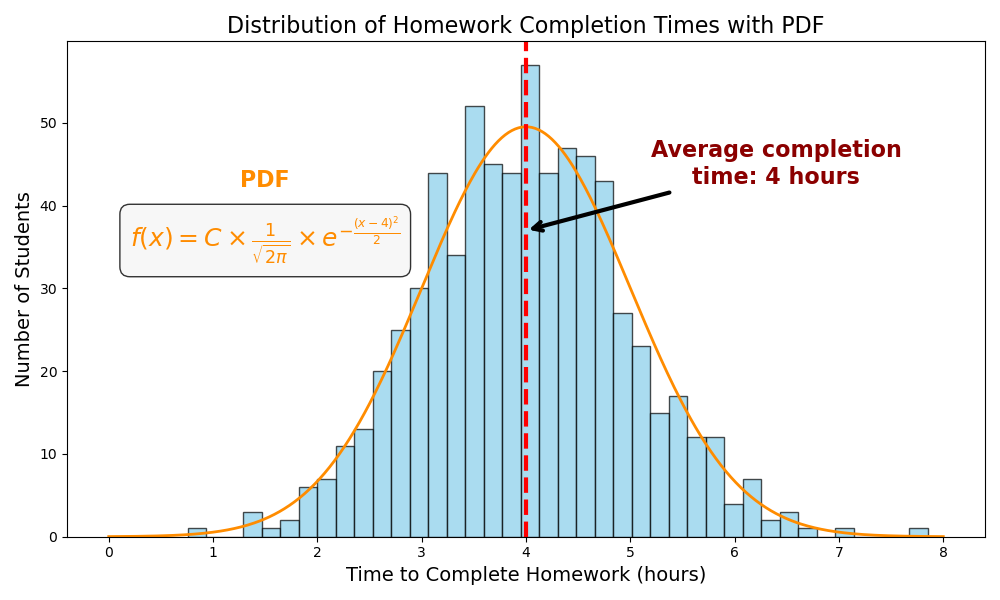
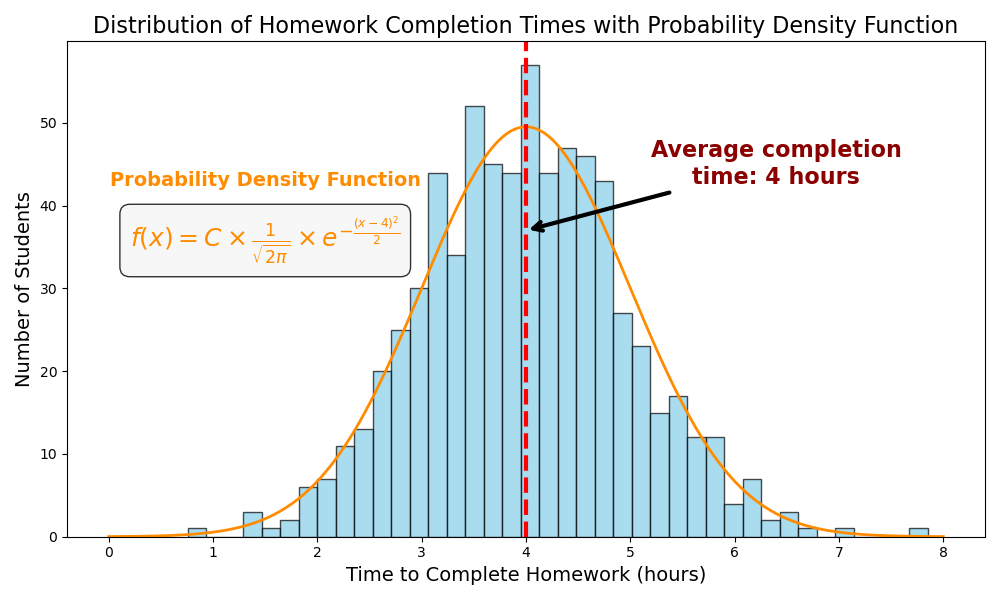
Blog finalized

Changed region(s): [[0.093, 0.03, 0.961, 0.06], [0.093, 0.27, 0.434, 0.33]]

diff --git a/docs/posts/normal-distribution/index.html b/docs/posts/normal-distribution/index.html
@@ -188,7 +188,7 @@ window.Quarto = {
 
 <section id="introduction" class="level3">
 <h3 class="anchored" data-anchor-id="introduction">Introduction</h3>
-<p>Statistics courses are a common part of university education, attracting students from different majors. However, these courses often present statistical distributions through definitions and formulas, which can leave students with a limited understanding of their practical significance. This blog focuses on providing a clear and intuitive explanation of the normal distribution, one of the most fundamental statistical distributions. By using relatable examples, engaging plots, and simplified explanations, it explores the “why” and “how” of the normal distribution, highlighting its real-world relevance and applications.</p>
+<p>Statistics courses are a common part of university education, attracting students from different majors. However, these courses often present statistical distributions only through definitions and formulas, which can leave students with a limited understanding of their practical significance. This blog focuses on providing a clear and intuitive explanation of the normal distribution, one of the most fundamental statistical distributions. By using relatable examples, engaging plots, and simplified explanations, it explores the “why” and “how” of the normal distribution, highlighting its real-world relevance and applications.</p>
 <div class="callout callout-style-default callout-note callout-titled">
 <div class="callout-header d-flex align-content-center">
 <div class="callout-icon-container">
@@ -199,7 +199,7 @@ Note
 </div>
 </div>
 <div class="callout-body-container callout-body">
-<p>This blog assumes readers already have a foundational understanding of statistics and probability, including familiarity with random variables and probability density functions. While brief explanations are provided, the blog does not go deep into these concepts</p>
+<p>This blog assumes readers already have a foundational understanding of statistics and probability, including familiarity with random variables and probability density functions. While brief explanations are provided, the blog does not go deep into these concepts.</p>
 </div>
 </div>
 </section>
@@ -226,14 +226,14 @@ Figure&nbsp;1: The distribution of homework completion times. The x-axis represe
 </figcaption>
 </figure>
 </div>
-<p>The x-axis represents the time taken to complete the homework, while the y-axis shows the number of students who completed it within that time frame. This graph is called the <strong>distribution of the random variable</strong> or in this case, <strong>the distribution of the time required to complete the first homework</strong>. Depending on the students’ preparation and skill set, the distribution may vary. The <a href="#fig-skewed-homework-completion-distribution" class="quarto-xref">Figure&nbsp;2</a> shows another two scenarios that are relevant to university homework completion case.</p>
+<p>The x-axis represents the time taken to complete the homework, while the y-axis shows the number of students who completed it within that time frame. This graph is called the <strong>distribution of the random variable</strong> or in this case, <strong>the distribution of the time required to complete the first homework</strong>. Depending on the students’ preparation and skill set, the distribution may vary. The <a href="#fig-skewed-homework-completion-distribution" class="quarto-xref">Figure&nbsp;2</a> shows another two scenarios that are relevant to the university homework completion case.</p>
 <div id="fig-skewed-homework-completion-distribution" class="quarto-float quarto-figure quarto-figure-center anchored">
 <figure class="quarto-float quarto-float-fig figure">
 <div aria-describedby="fig-skewed-homework-completion-distribution-caption-0ceaefa1-69ba-4598-a22c-09a6ac19f8ca">
 <img src="../../img/skewed_homework_completion_distribution.png" class="img-fluid figure-img" style="width:110.0%">
 </div>
 <figcaption class="quarto-float-caption-bottom quarto-float-caption quarto-float-fig" id="fig-skewed-homework-completion-distribution-caption-0ceaefa1-69ba-4598-a22c-09a6ac19f8ca">
-Figure&nbsp;2: The skewed distribution of homework completion times. The first plot is a right skewed distribution. The second plot is a left skewed distribution.
+Figure&nbsp;2: The skewed distribution of homework completion times. The first plot is a right-skewed distribution. The second plot is a left-skewed distribution.
 </figcaption>
 </figure>
 </div>
@@ -248,7 +248,7 @@ Figure&nbsp;2: The skewed distribution of homework completion times. The first p
 <p>The random variable <code>X = the time required to complete the statistics homework</code> follows a normal distribution with mean 4 hours and standard deviation of 1 hour. Or: <span class="math display">\[
 N \sim (\mu = 4, \sigma^2=1)
 \]</span></p>
-<p>There are two parameters in the normal distribution - <span class="math inline">\(\mu \text{ and } \sigma\)</span> corresponding to mean and standard deviation respectively. Any combination of the parameters is a new normal distribution. <span class="citation" data-cites="different-normal-distributions">@different-normal-distributions</span> plots different normal distributions.</p>
+<p>There are two parameters in the normal distribution - <span class="math inline">\(\mu \text{ and } \sigma\)</span>, corresponding to mean and standard deviation respectively. Any combination of the parameters is a new normal distribution. <a href="#fig-different-normal-distributions" class="quarto-xref">Figure&nbsp;3</a> plots different normal distributions.</p>
 <div id="fig-different-normal-distributions" class="quarto-float quarto-figure quarto-figure-center anchored">
 <figure class="quarto-float quarto-float-fig figure">
 <div aria-describedby="fig-different-normal-distributions-caption-0ceaefa1-69ba-4598-a22c-09a6ac19f8ca">
@@ -290,35 +290,42 @@ f(x) = \frac{1}{\sqrt{2\pi\sigma^2}} \times e^{-\frac{(x - \mu)^2}{2\sigma^2}}
 <p><span class="math display">\[
 C = \text{Number of students} \times \text{Bin width}
 \]</span></p>
-<p>Now, when you know that your data follows a normal distribution, lots of opportunities come up:</p>
+<p>Now, when you know that your data follows a normal distribution, lots of opportunities come up: &nbsp;</p>
 <ul>
-<li><strong>Enable parametric tests</strong>: Many statistical tests and models assume normality. If your data is normally distributed, you can apply parametric methods, which tend to offer more power and precision compared to non-parametric methods (e.g.&nbsp;Test if the average time to complete the homework is equal to 4 hours for all the students taking statistics using the sample).</li>
-<li><strong>Prediction</strong>: Using the Cumulative Distribution Function (CDF) you can find probability of students finishing their homework in certain range (e.g.&nbsp;X &gt; 6: What is the probability that a student will finish the homework in more than 6 hours).<br>
-</li>
-<li><strong>Other</strong>: Normal distributions provide additional advantages, such as more reliable confidence intervals, simpler statistical inference, and the ability to use the central limit theorem even with smaller sample sizes.</li>
+<li>&nbsp; <strong>Enable parametric tests</strong>: Many statistical tests and models assume normality. If your data is normally distributed, you can apply parametric methods, which tend to offer more power and precision compared to non-parametric methods (e.g.&nbsp;Test if the average time to complete the homework is equal to 4 hours for all the students taking statistics using the sample data).</li>
+<li>&nbsp; <strong>Prediction</strong>: Using the Cumulative Distribution Function (CDF) you can find the probability of students finishing their homework in certain range (e.g.&nbsp;X &gt; 6: What is the probability that a student will finish the homework in more than 6 hours). &nbsp;</li>
+<li>&nbsp; <strong>Other</strong>: Normal distributions provide additional advantages, such as more reliable confidence intervals, simpler statistical inference, and the ability to use the central limit theorem even with smaller sample sizes.</li>
 </ul>
 </section>
 <section id="what-is-the-reason-for-normal-distribution-being-so-popular" class="level3">
 <h3 class="anchored" data-anchor-id="what-is-the-reason-for-normal-distribution-being-so-popular">What is the reason for normal distribution being so popular?</h3>
-<p>Normal distribution commonly appears in real-world scenarios. This is connected to an important statistical theorem called <strong>Central Limit Theorem (CLT)</strong>. It states that, regardless of the original distribution of data, if you repeatedly take random samples from a population and calculate the mean of each sample, the distribution of those sample means will tend to follow a normal distribution as the sample size increases. Sounds a bit complicated, let’s break down based on an example. The outcomes on the die are 1, 2, 3, 4, 5, or 6, and each number has an equal chance of occurring (<span class="math inline">\(\frac{1}{6}\)</span>), so the distribution is uniform (see <span class="citation" data-cites="dice-probability">@dice-probability</span>).</p>
-<div id="dice-probability" class="quarto-figure quarto-figure-center anchored">
-<figure class="figure">
-<p><img src="../../img/dice_probability.png" class="img-fluid figure-img" style="width:90.0%"></p>
-<figcaption>The probability distribution of rolling a fair 6-sided die.</figcaption>
+<p>Normal distribution commonly appears in real-world scenarios. One of the main reasons is the important statistical theorem called <strong>Central Limit Theorem (CLT)</strong>. It states that, regardless of the original distribution of data, if you repeatedly take random samples from a population and calculate the mean of each sample, the distribution of those sample means will tend to follow a normal distribution as the sample size increases. Sounds a bit complicated, let’s break down based on an example. The outcomes on the die are 1, 2, 3, 4, 5, or 6, and each number has an equal chance of occurring (<span class="math inline">\(\frac{1}{6}\)</span>), so the distribution is uniform (see <a href="#fig-dice-probability" class="quarto-xref">Figure&nbsp;5</a>).</p>
+<div id="fig-dice-probability" class="quarto-float quarto-figure quarto-figure-center anchored">
+<figure class="quarto-float quarto-float-fig figure">
+<div aria-describedby="fig-dice-probability-caption-0ceaefa1-69ba-4598-a22c-09a6ac19f8ca">
+<img src="../../img/dice_probability.png" class="img-fluid figure-img" style="width:90.0%">
+</div>
+<figcaption class="quarto-float-caption-bottom quarto-float-caption quarto-float-fig" id="fig-dice-probability-caption-0ceaefa1-69ba-4598-a22c-09a6ac19f8ca">
+Figure&nbsp;5: The probability distribution of rolling a fair 6-sided die.
+</figcaption>
 </figure>
 </div>
-<p>Now, you want to calculate the average of several rolls of the die. If you roll the die 5 times and calculate the average of those 5 rolls, you will get a number between 1 and 6. If you repeat the process 100 times (rolling the die 100x5 times), you will get 100 averages rolling the die 5 times for each. These averages will likely vary, but if you plot all 100 averages, you’ll notice something interesting (see <span class="citation" data-cites="clt-gif">@clt-gif</span>).</p>
-<div id="clt-gif" class="quarto-figure quarto-figure-center anchored">
-<figure class="figure">
-<p><img src="../../img/clt_die_rolls_increasing_samples.gif" class="img-fluid figure-img" style="width:90.0%"></p>
-<figcaption>The sampling distribution of the sample means for rolling a die</figcaption>
+<p>Now, you want to calculate the average of several rolls of the die. If you roll the die 5 times and calculate the average of those 5 rolls, you will get a number between 1 and 6. If you repeat the process 100 times (rolling the die 100x5 times), you will get 100 averages rolling the die 5 times for each. These averages will likely vary, but if you plot all 100 averages, you’ll notice something interesting (see <a href="#fig-clt-die-rolls-gif" class="quarto-xref">Figure&nbsp;6</a>).</p>
+<div id="fig-clt-die-rolls-gif" class="quarto-float quarto-figure quarto-figure-center anchored">
+<figure class="quarto-float quarto-float-fig figure">
+<div aria-describedby="fig-clt-die-rolls-gif-caption-0ceaefa1-69ba-4598-a22c-09a6ac19f8ca">
+<img src="../../img/clt_die_rolls_increasing_samples.gif" class="img-fluid figure-img" style="width:90.0%">
+</div>
+<figcaption class="quarto-float-caption-bottom quarto-float-caption quarto-float-fig" id="fig-clt-die-rolls-gif-caption-0ceaefa1-69ba-4598-a22c-09a6ac19f8ca">
+Figure&nbsp;6: The sampling distribution of the sample means for rolling a die
+</figcaption>
 </figure>
 </div>
-<p>The distribution of those 100 averages will start to look like a normal distribution, even though the original die rolls themselves were uniformly distributed (not normal). The more samples you take, the closer the distribution of averages will be to a normal distribution. What a nice property! Now, as you have a normal distribution for the average, you can run hypothesis tests, get confidence intervals, calculate probabilities and so on.</p>
+<p>The distribution of those 100 averages will start to look like a normal distribution, even though the original die rolls themselves were uniformly distributed (not normal). The more samples you take, the closer the distribution of averages will be to a normal distribution. What a nice property! Now, as you have a normal distribution for the average, you can run hypothesis tests, get confidence intervals, calculate probabilities, and so on.</p>
 </section>
 <section id="conclusion" class="level3">
 <h3 class="anchored" data-anchor-id="conclusion">Conclusion</h3>
-<p>The blog explored the normal distribution from a practical, intuitive standpoint. By examining everyday examples like homework completion times and die rolls, the blog showed how the normal distribution naturally emerges in many real-world situations. The key takeaway is that the normal distribution isn’t just a theoretical concept but a tool that helps us understand variability and uncertainty in real-world data.</p>
+<p>The blog explored the normal distribution from a practical, intuitive standpoint. By examining everyday examples like homework completion times and die rolls, the blog showed how the normal distribution naturally emerges in many real-world situations. The key takeaway is that normal distribution isn’t just a theoretical concept but a tool that helps us understand variability and uncertainty in real-world data.</p>
 <p>For those struggling to intuitively grasp the normal distribution, remember that it’s simply a way of describing how values spread around a central point. Most values cluster near the mean, with fewer values appearing as you move farther away—just like how most students finish their homework within a certain time frame. Recognizing this pattern in data makes it easier to predict outcomes, perform statistical tests, and make informed decisions.</p>
 
 

diff --git a/docs/notebook/generate_plots.html b/docs/notebook/generate_plots.html
@@ -281,7 +281,7 @@ pre > code.sourceCode > span > a:first-child::before { text-decoration: underlin
 </div>
 </div>
 </div>
-<div id="25bdd1ed-5516-4408-b46d-7e6ff4a79c3a" class="cell" data-execution_count="79">
+<div id="25bdd1ed-5516-4408-b46d-7e6ff4a79c3a" class="cell" data-execution_count="22">
 <div class="sourceCode cell-code" id="cb3"><pre class="sourceCode python code-with-copy"><code class="sourceCode python"><span id="cb3-1"><a href="#cb3-1" aria-hidden="true" tabindex="-1"></a><span class="im">import</span> numpy <span class="im">as</span> np</span>
 <span id="cb3-2"><a href="#cb3-2" aria-hidden="true" tabindex="-1"></a><span class="im">import</span> matplotlib.pyplot <span class="im">as</span> plt</span>
 <span id="cb3-3"><a href="#cb3-3" aria-hidden="true" tabindex="-1"></a><span class="im">from</span> scipy.stats <span class="im">import</span> norm</span>
@@ -340,10 +340,10 @@ pre > code.sourceCode > span > a:first-child::before { text-decoration: underlin
 <span id="cb3-56"><a href="#cb3-56" aria-hidden="true" tabindex="-1"></a>)</span>
 <span id="cb3-57"><a href="#cb3-57" aria-hidden="true" tabindex="-1"></a></span>
 <span id="cb3-58"><a href="#cb3-58" aria-hidden="true" tabindex="-1"></a>plt.annotate(</span>
-<span id="cb3-59"><a href="#cb3-59" aria-hidden="true" tabindex="-1"></a>    <span class="ss">f'PDF'</span>,</span>
-<span id="cb3-60"><a href="#cb3-60" aria-hidden="true" tabindex="-1"></a>    xy<span class="op">=</span>(<span class="dv">6</span>, <span class="dv">30</span>),</span>
+<span id="cb3-59"><a href="#cb3-59" aria-hidden="true" tabindex="-1"></a>    <span class="ss">f'Probability Density Function'</span>,</span>
+<span id="cb3-60"><a href="#cb3-60" aria-hidden="true" tabindex="-1"></a>    xy<span class="op">=</span>(<span class="fl">5.8</span>, <span class="dv">30</span>),</span>
 <span id="cb3-61"><a href="#cb3-61" aria-hidden="true" tabindex="-1"></a>    xytext<span class="op">=</span>(<span class="fl">1.5</span>, <span class="dv">43</span>),</span>
-<span id="cb3-62"><a href="#cb3-62" aria-hidden="true" tabindex="-1"></a>    fontsize<span class="op">=</span><span class="dv">16</span>,</span>
+<span id="cb3-62"><a href="#cb3-62" aria-hidden="true" tabindex="-1"></a>    fontsize<span class="op">=</span><span class="dv">14</span>,</span>
 <span id="cb3-63"><a href="#cb3-63" aria-hidden="true" tabindex="-1"></a>    weight<span class="op">=</span><span class="st">'bold'</span>,</span>
 <span id="cb3-64"><a href="#cb3-64" aria-hidden="true" tabindex="-1"></a>    color<span class="op">=</span><span class="st">'darkorange'</span>,</span>
 <span id="cb3-65"><a href="#cb3-65" aria-hidden="true" tabindex="-1"></a>    ha<span class="op">=</span><span class="st">'center'</span>,</span>
@@ -351,7 +351,7 @@ pre > code.sourceCode > span > a:first-child::before { text-decoration: underlin
 <span id="cb3-67"><a href="#cb3-67" aria-hidden="true" tabindex="-1"></a>)</span>
 <span id="cb3-68"><a href="#cb3-68" aria-hidden="true" tabindex="-1"></a></span>
 <span id="cb3-69"><a href="#cb3-69" aria-hidden="true" tabindex="-1"></a><span class="co"># Add labels and title</span></span>
-<span id="cb3-70"><a href="#cb3-70" aria-hidden="true" tabindex="-1"></a>plt.title(<span class="st">'Distribution of Homework Completion Times with PDF'</span>, size<span class="op">=</span><span class="dv">16</span>)</span>
+<span id="cb3-70"><a href="#cb3-70" aria-hidden="true" tabindex="-1"></a>plt.title(<span class="st">'Distribution of Homework Completion Times with Probability Density Function'</span>, size<span class="op">=</span><span class="dv">16</span>)</span>
 <span id="cb3-71"><a href="#cb3-71" aria-hidden="true" tabindex="-1"></a>plt.xlabel(<span class="st">'Time to Complete Homework (hours)'</span>, size<span class="op">=</span><span class="dv">14</span>)</span>
 <span id="cb3-72"><a href="#cb3-72" aria-hidden="true" tabindex="-1"></a>plt.ylabel(<span class="st">'Number of Students'</span>, size<span class="op">=</span><span class="dv">14</span>)</span>
 <span id="cb3-73"><a href="#cb3-73" aria-hidden="true" tabindex="-1"></a>plt.tight_layout()</span>

diff --git a/docs/index.html b/docs/index.html
@@ -205,7 +205,7 @@ window.Quarto = {
 
 <div class="quarto-listing quarto-listing-container-default" id="listing-listing">
 <div class="list quarto-listing-default">
-<div class="quarto-post image-right" data-index="0" data-categories="analysis,code,data science" data-listing-date-sort="1737100800000" data-listing-file-modified-sort="1737225243620" data-listing-date-modified-sort="NaN" data-listing-reading-time-sort="8" data-listing-word-count-sort="1531">
+<div class="quarto-post image-right" data-index="0" data-categories="analysis,code,data science" data-listing-date-sort="1737100800000" data-listing-file-modified-sort="1737226191391" data-listing-date-modified-sort="NaN" data-listing-reading-time-sort="8" data-listing-word-count-sort="1529">
 <div class="thumbnail">
 <p><a href="./posts/normal-distribution/index.html" class="no-external"></a></p><a href="./posts/normal-distribution/index.html" class="no-external">
 <p><img loading="lazy" src="./posts/normal-distribution/image.jpg" class="thumbnail-image"></p>
@@ -230,7 +230,7 @@ data science
 </div>
 </div>
 <div class="listing-description">
-<a href="./posts/normal-distribution/index.html" class="no-external">Statistics courses are a common part of university education, attracting students from different majors. However, these courses often present statistical distributions…</a>
+<a href="./posts/normal-distribution/index.html" class="no-external">Statistics courses are a common part of university education, attracting students from different majors. However, these courses often present statistical distributions only…</a>
 </div>
 </div>
 <div class="metadata">
